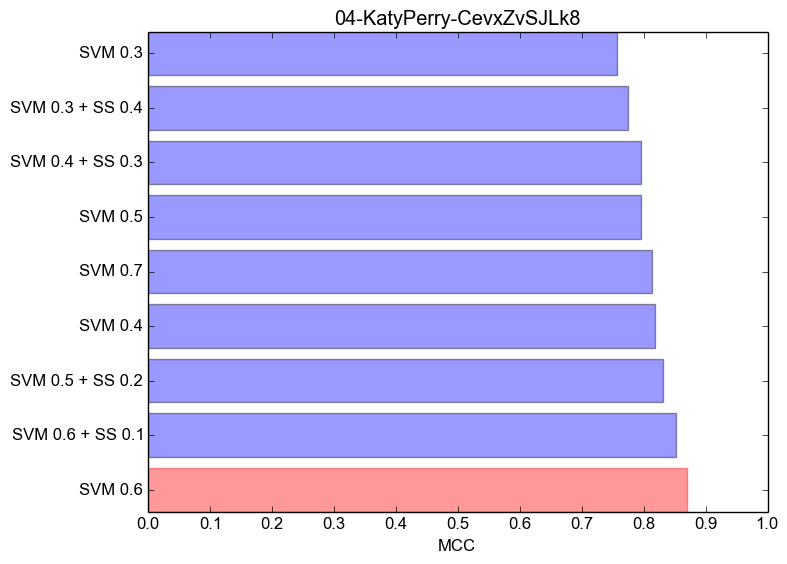
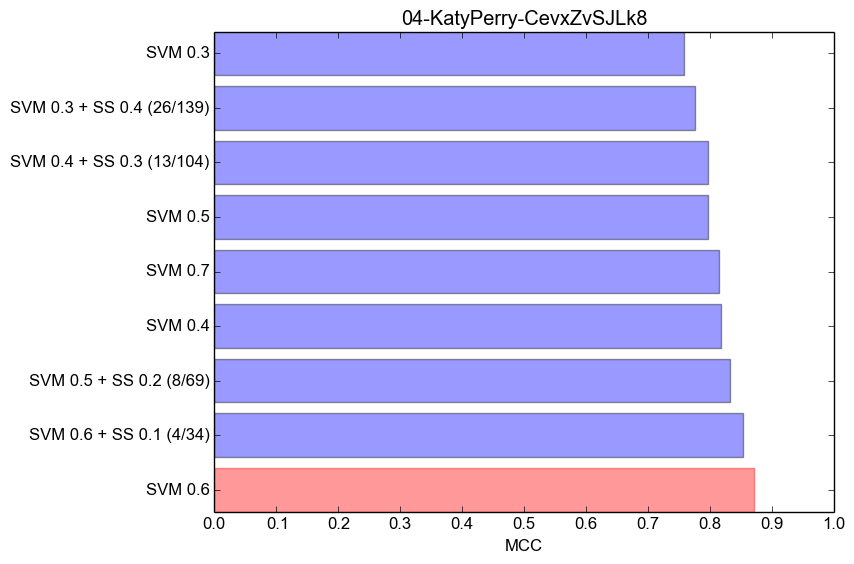
Add grid search to semi-supervised training

diff --git a/exp3 stratified/results/09-Shakira-pRpeEdMmmQ0.tex b/exp3 stratified/results/09-Shakira-pRpeEdMmmQ0.tex
@@ -7,13 +7,13 @@
 Classifier & Acc (\%) & SC (\%) & BH (\%) & F-medida & MCC & TP & TN & FP & FN \\ \hline
 SVM 0.7 & 93.75 & 90.57 & 3.39 & 0.932 & 0.876 & 48 & 57 & 2 & 5 \\ 
 SVM 0.3 & 92.86 & 88.68 & 3.39 & 0.922 & 0.858 & 47 & 57 & 2 & 6 \\ 
-SVM 0.3 + SS 0.4 (thr 0.7) (0/148) & 92.86 & 88.68 & 3.39 & 0.922 & 0.858 & 47 & 57 & 2 & 6 \\ 
-SVM 0.3 + SS 0.4 (thr 0.75) (0/148) & 92.86 & 88.68 & 3.39 & 0.922 & 0.858 & 47 & 57 & 2 & 6 \\ 
-SVM 0.3 + SS 0.4 (thr 0.8) (0/148) & 92.86 & 88.68 & 3.39 & 0.922 & 0.858 & 47 & 57 & 2 & 6 \\ 
-SVM 0.3 + SS 0.4 (thr 0.85) (0/148) & 92.86 & 88.68 & 3.39 & 0.922 & 0.858 & 47 & 57 & 2 & 6 \\ 
-SVM 0.3 + SS 0.4 (thr 0.9) (0/148) & 92.86 & 88.68 & 3.39 & 0.922 & 0.858 & 47 & 57 & 2 & 6 \\ 
-SVM 0.3 + SS 0.4 (thr 0.95) (0/148) & 92.86 & 88.68 & 3.39 & 0.922 & 0.858 & 47 & 57 & 2 & 6 \\ 
+SVM 0.3 + SS 0.4 (thr 0.9) (1/148) & 92.86 & 88.68 & 3.39 & 0.922 & 0.858 & 47 & 57 & 2 & 6 \\ 
+SVM 0.3 + SS 0.4 (thr 0.95) (1/148) & 92.86 & 88.68 & 3.39 & 0.922 & 0.858 & 47 & 57 & 2 & 6 \\ 
 SVM 0.3 + SS 0.4 (thr 1.0) (0/148) & 92.86 & 88.68 & 3.39 & 0.922 & 0.858 & 47 & 57 & 2 & 6 \\ 
+SVM 0.3 + SS 0.4 (thr 0.7) (8/148) & 92.86 & 90.57 & 5.08 & 0.923 & 0.857 & 48 & 56 & 3 & 5 \\ 
+SVM 0.3 + SS 0.4 (thr 0.75) (6/148) & 91.96 & 83.02 & 0.00 & 0.907 & 0.849 & 44 & 59 & 0 & 9 \\ 
+SVM 0.3 + SS 0.4 (thr 0.8) (6/148) & 91.96 & 83.02 & 0.00 & 0.907 & 0.849 & 44 & 59 & 0 & 9 \\ 
+SVM 0.3 + SS 0.4 (thr 0.85) (2/148) & 91.96 & 83.02 & 0.00 & 0.907 & 0.849 & 44 & 59 & 0 & 9 \\ 
 \hline\hline
 \end{tabular}
 \end{table}

diff --git a/experiment2.py b/experiment2.py
@@ -44,17 +44,16 @@ def exp2(filename):
     print clf_title
     print_best_params(clf)
 
-  ss_clf = LabelSpreading(kernel='rbf', gamma=1)
-  # ss_grid = GridSearchCV(LabelSpreading(kernel='rbf'), param_gamma, cv=10)
+  # ss_clf = LabelSpreading(kernel='rbf', gamma=1)
+  ss_grid = GridSearchCV(LabelSpreading(kernel='rbf'), param_gamma, cv=10)
   config = [('SVM 0.3 + SS 0.4', SemiSupervisedClassification(filename, threshold=0.9, train_percent=0.3, ss_percent=0.4)),
             ('SVM 0.4 + SS 0.3', SemiSupervisedClassification(filename, threshold=0.9, train_percent=0.4, ss_percent=0.3)),
             ('SVM 0.5 + SS 0.2', SemiSupervisedClassification(filename, threshold=0.9, train_percent=0.5, ss_percent=0.2)),
             ('SVM 0.6 + SS 0.1', SemiSupervisedClassification(filename, threshold=0.9, train_percent=0.6, ss_percent=0.1))]
 
   for clf_title, option in config:
-    y_true, y_pred, interm_clf, final_clf, len_above_SS, len_X_ss = option.classify(ss_clf, svm_grid);
-    # scores_list.append(('{0} ({1}/{2})'.format(clf_title, len_above_SS, len_X_ss), calculate_scores(y_true, y_pred)))
-    scores_list.append((clf_title, calculate_scores(y_true, y_pred)))
+    y_true, y_pred, interm_clf, final_clf, len_above_SS, len_X_ss = option.classify(ss_grid, svm_grid);
+    scores_list.append(('{0} ({1}/{2})'.format(clf_title, len_above_SS, len_X_ss), calculate_scores(y_true, y_pred)))
     print clf_title
     print_best_params(interm_clf)
     print_best_params(final_clf)

diff --git a/experiment3.py b/experiment3.py
@@ -41,8 +41,8 @@ def exp3(filename):
     print clf_title
     print_best_params(clf)
 
-  ss_clf = LabelSpreading(kernel='rbf', gamma=1)
-  # ss_grid = GridSearchCV(LabelSpreading(kernel='rbf'), param_gamma, cv=10)
+  # ss_clf = LabelSpreading(kernel='rbf', gamma=1)
+  ss_grid = GridSearchCV(LabelSpreading(kernel='rbf'), param_gamma, cv=10)
   config = [('SVM 0.3 + SS 0.4 (thr 0.7)',  SemiSupervisedClassification(filename, threshold=0.7 , train_percent=0.3, ss_percent=0.4)),
             ('SVM 0.3 + SS 0.4 (thr 0.75)', SemiSupervisedClassification(filename, threshold=0.75, train_percent=0.3, ss_percent=0.4)),
             ('SVM 0.3 + SS 0.4 (thr 0.8)',  SemiSupervisedClassification(filename, threshold=0.8 , train_percent=0.3, ss_percent=0.4)),
@@ -52,7 +52,7 @@ def exp3(filename):
             ('SVM 0.3 + SS 0.4 (thr 1.0)',  SemiSupervisedClassification(filename, threshold=1.0 , train_percent=0.3, ss_percent=0.4))]
 
   for clf_title, option in config:
-    y_true, y_pred, interm_clf, final_clf, len_above_SS, len_X_ss = option.classify(ss_clf, svm_grid);
+    y_true, y_pred, interm_clf, final_clf, len_above_SS, len_X_ss = option.classify(ss_grid, svm_grid);
     scores_list.append(('{0} ({1}/{2})'.format(clf_title, len_above_SS, len_X_ss), calculate_scores(y_true, y_pred)))
     # scores_list.append((clf_title, calculate_scores(y_true, y_pred)))
     print clf_title

diff --git a/exp2/results/09-Shakira-pRpeEdMmmQ0.tex b/exp2/results/09-Shakira-pRpeEdMmmQ0.tex
@@ -7,13 +7,13 @@
 Classifier & Acc (\%) & SC (\%) & BH (\%) & F-medida & MCC & TP & TN & FP & FN \\ \hline
 SVM 0.6 & 90.09 & 86.84 & 2.86 & 0.923 & 0.798 & 66 & 34 & 1 & 10 \\ 
 SVM 0.7 & 90.09 & 86.84 & 2.86 & 0.923 & 0.798 & 66 & 34 & 1 & 10 \\ 
-SVM 0.6 + SS 0.1 & 90.09 & 86.84 & 2.86 & 0.923 & 0.798 & 66 & 34 & 1 & 10 \\ 
+SVM 0.6 + SS 0.1 (26/37) & 90.09 & 86.84 & 2.86 & 0.923 & 0.798 & 66 & 34 & 1 & 10 \\ 
 SVM 0.5 & 89.19 & 84.21 & 0.00 & 0.914 & 0.792 & 64 & 35 & 0 & 12 \\ 
-SVM 0.5 + SS 0.2 & 83.78 & 76.32 & 0.00 & 0.866 & 0.710 & 58 & 35 & 0 & 18 \\ 
+SVM 0.5 + SS 0.2 (57/74) & 83.78 & 76.32 & 0.00 & 0.866 & 0.710 & 58 & 35 & 0 & 18 \\ 
 SVM 0.4 & 81.98 & 73.68 & 0.00 & 0.848 & 0.685 & 56 & 35 & 0 & 20 \\ 
 SVM 0.3 & 70.27 & 56.58 & 0.00 & 0.723 & 0.540 & 43 & 35 & 0 & 33 \\ 
-SVM 0.4 + SS 0.3 & 47.75 & 23.68 & 0.00 & 0.383 & 0.299 & 18 & 35 & 0 & 58 \\ 
-SVM 0.3 + SS 0.4 & 42.34 & 15.79 & 0.00 & 0.273 & 0.236 & 12 & 35 & 0 & 64 \\ 
+SVM 0.4 + SS 0.3 (99/111) & 47.75 & 23.68 & 0.00 & 0.383 & 0.299 & 18 & 35 & 0 & 58 \\ 
+SVM 0.3 + SS 0.4 (134/148) & 42.34 & 15.79 & 0.00 & 0.273 & 0.236 & 12 & 35 & 0 & 64 \\ 
 \hline\hline
 \end{tabular}
 \end{table}

diff --git a/exp2/results/07-LMFAO-KQ6zr6kCPj8.tex b/exp2/results/07-LMFAO-KQ6zr6kCPj8.tex
@@ -8,12 +8,12 @@ Classifier & Acc (\%) & SC (\%) & BH (\%) & F-medida & MCC & TP & TN & FP & FN \
 SVM 0.7 & 97.73 & 97.39 & 0.00 & 0.987 & 0.910 & 112 & 17 & 0 & 3 \\ 
 SVM 0.6 & 94.70 & 93.91 & 0.00 & 0.969 & 0.816 & 108 & 17 & 0 & 7 \\ 
 SVM 0.5 & 91.67 & 90.43 & 0.00 & 0.950 & 0.741 & 104 & 17 & 0 & 11 \\ 
-SVM 0.6 + SS 0.1 & 86.36 & 84.35 & 0.00 & 0.915 & 0.640 & 97 & 17 & 0 & 18 \\ 
+SVM 0.6 + SS 0.1 (25/44) & 86.36 & 84.35 & 0.00 & 0.915 & 0.640 & 97 & 17 & 0 & 18 \\ 
 SVM 0.3 & 72.73 & 68.70 & 0.00 & 0.814 & 0.469 & 79 & 17 & 0 & 36 \\ 
-SVM 0.5 + SS 0.2 & 68.18 & 63.48 & 0.00 & 0.777 & 0.428 & 73 & 17 & 0 & 42 \\ 
+SVM 0.5 + SS 0.2 (35/87) & 68.18 & 63.48 & 0.00 & 0.777 & 0.428 & 73 & 17 & 0 & 42 \\ 
 SVM 0.4 & 65.15 & 60.00 & 0.00 & 0.750 & 0.402 & 69 & 17 & 0 & 46 \\ 
-SVM 0.4 + SS 0.3 & 61.36 & 55.65 & 0.00 & 0.715 & 0.373 & 64 & 17 & 0 & 51 \\ 
-SVM 0.3 + SS 0.4 & 58.33 & 52.17 & 0.00 & 0.686 & 0.351 & 60 & 17 & 0 & 55 \\ 
+SVM 0.4 + SS 0.3 (75/131) & 61.36 & 55.65 & 0.00 & 0.715 & 0.373 & 64 & 17 & 0 & 51 \\ 
+SVM 0.3 + SS 0.4 (149/175) & 58.33 & 52.17 & 0.00 & 0.686 & 0.351 & 60 & 17 & 0 & 55 \\ 
 \hline\hline
 \end{tabular}
 \end{table}

diff --git a/exp2/results/04-KatyPerry-CevxZvSJLk8.tex b/exp2/results/04-KatyPerry-CevxZvSJLk8.tex
@@ -6,13 +6,13 @@
 \hline\hline
 Classifier & Acc (\%) & SC (\%) & BH (\%) & F-medida & MCC & TP & TN & FP & FN \\ \hline
 SVM 0.6 & 93.40 & 87.76 & 1.75 & 0.925 & 0.870 & 43 & 56 & 1 & 6 \\ 
-SVM 0.6 + SS 0.1 & 92.45 & 85.71 & 1.75 & 0.913 & 0.853 & 42 & 56 & 1 & 7 \\ 
-SVM 0.5 + SS 0.2 & 91.51 & 85.71 & 3.51 & 0.903 & 0.832 & 42 & 55 & 2 & 7 \\ 
+SVM 0.6 + SS 0.1 (4/34) & 92.45 & 85.71 & 1.75 & 0.913 & 0.853 & 42 & 56 & 1 & 7 \\ 
+SVM 0.5 + SS 0.2 (8/69) & 91.51 & 85.71 & 3.51 & 0.903 & 0.832 & 42 & 55 & 2 & 7 \\ 
 SVM 0.4 & 90.57 & 81.63 & 1.75 & 0.889 & 0.818 & 40 & 56 & 1 & 9 \\ 
 SVM 0.7 & 90.57 & 83.67 & 3.51 & 0.891 & 0.814 & 41 & 55 & 2 & 8 \\ 
 SVM 0.5 & 89.62 & 81.63 & 3.51 & 0.879 & 0.796 & 40 & 55 & 2 & 9 \\ 
-SVM 0.4 + SS 0.3 & 89.62 & 81.63 & 3.51 & 0.879 & 0.796 & 40 & 55 & 2 & 9 \\ 
-SVM 0.3 + SS 0.4 & 88.68 & 81.63 & 5.26 & 0.870 & 0.775 & 40 & 54 & 3 & 9 \\ 
+SVM 0.4 + SS 0.3 (13/104) & 89.62 & 81.63 & 3.51 & 0.879 & 0.796 & 40 & 55 & 2 & 9 \\ 
+SVM 0.3 + SS 0.4 (26/139) & 88.68 & 81.63 & 5.26 & 0.870 & 0.775 & 40 & 54 & 3 & 9 \\ 
 SVM 0.3 & 87.74 & 79.59 & 5.26 & 0.857 & 0.758 & 39 & 54 & 3 & 10 \\ 
 \hline\hline
 \end{tabular}

diff --git a/exp2/results/08-rotulada-tratada-embaralhada.tex b/exp2/results/08-rotulada-tratada-embaralhada.tex
@@ -8,12 +8,12 @@ Classifier & Acc (\%) & SC (\%) & BH (\%) & F-medida & MCC & TP & TN & FP & FN \
 SVM 0.7 & 97.04 & 95.59 & 1.49 & 0.970 & 0.941 & 65 & 66 & 1 & 3 \\ 
 SVM 0.4 & 96.30 & 95.59 & 2.99 & 0.963 & 0.926 & 65 & 65 & 2 & 3 \\ 
 SVM 0.6 & 95.56 & 95.59 & 4.48 & 0.956 & 0.911 & 65 & 64 & 3 & 3 \\ 
-SVM 0.5 + SS 0.2 & 95.56 & 95.59 & 4.48 & 0.956 & 0.911 & 65 & 64 & 3 & 3 \\ 
-SVM 0.6 + SS 0.1 & 95.56 & 95.59 & 4.48 & 0.956 & 0.911 & 65 & 64 & 3 & 3 \\ 
+SVM 0.5 + SS 0.2 (33/89) & 95.56 & 95.59 & 4.48 & 0.956 & 0.911 & 65 & 64 & 3 & 3 \\ 
+SVM 0.6 + SS 0.1 (9/45) & 95.56 & 95.59 & 4.48 & 0.956 & 0.911 & 65 & 64 & 3 & 3 \\ 
 SVM 0.3 & 94.81 & 92.65 & 2.99 & 0.947 & 0.897 & 63 & 65 & 2 & 5 \\ 
 SVM 0.5 & 94.81 & 95.59 & 5.97 & 0.949 & 0.896 & 65 & 63 & 4 & 3 \\ 
-SVM 0.4 + SS 0.3 & 91.85 & 89.71 & 5.97 & 0.917 & 0.838 & 61 & 63 & 4 & 7 \\ 
-SVM 0.3 + SS 0.4 & 91.11 & 89.71 & 7.46 & 0.910 & 0.823 & 61 & 62 & 5 & 7 \\ 
+SVM 0.4 + SS 0.3 (52/134) & 91.85 & 89.71 & 5.97 & 0.917 & 0.838 & 61 & 63 & 4 & 7 \\ 
+SVM 0.3 + SS 0.4 (65/179) & 91.11 & 89.71 & 7.46 & 0.910 & 0.823 & 61 & 62 & 5 & 7 \\ 
 \hline\hline
 \end{tabular}
 \end{table}

diff --git a/exp2/results/01-PSY-9bZkp7q19f0.tex b/exp2/results/01-PSY-9bZkp7q19f0.tex
@@ -7,12 +7,12 @@
 Classifier & Acc (\%) & SC (\%) & BH (\%) & F-medida & MCC & TP & TN & FP & FN \\ \hline
 SVM 0.6 & 96.23 & 93.02 & 1.59 & 0.952 & 0.922 & 40 & 62 & 1 & 3 \\ 
 SVM 0.7 & 96.23 & 93.02 & 1.59 & 0.952 & 0.922 & 40 & 62 & 1 & 3 \\ 
-SVM 0.6 + SS 0.1 & 96.23 & 93.02 & 1.59 & 0.952 & 0.922 & 40 & 62 & 1 & 3 \\ 
+SVM 0.6 + SS 0.1 (0/34) & 96.23 & 93.02 & 1.59 & 0.952 & 0.922 & 40 & 62 & 1 & 3 \\ 
 SVM 0.4 & 96.23 & 95.35 & 3.17 & 0.953 & 0.922 & 41 & 61 & 2 & 2 \\ 
-SVM 0.4 + SS 0.3 & 96.23 & 95.35 & 3.17 & 0.953 & 0.922 & 41 & 61 & 2 & 2 \\ 
+SVM 0.4 + SS 0.3 (13/104) & 96.23 & 95.35 & 3.17 & 0.953 & 0.922 & 41 & 61 & 2 & 2 \\ 
 SVM 0.5 & 95.28 & 93.02 & 3.17 & 0.941 & 0.902 & 40 & 61 & 2 & 3 \\ 
-SVM 0.5 + SS 0.2 & 95.28 & 93.02 & 3.17 & 0.941 & 0.902 & 40 & 61 & 2 & 3 \\ 
-SVM 0.3 + SS 0.4 & 89.62 & 93.02 & 12.70 & 0.879 & 0.792 & 40 & 55 & 8 & 3 \\ 
+SVM 0.5 + SS 0.2 (5/69) & 95.28 & 93.02 & 3.17 & 0.941 & 0.902 & 40 & 61 & 2 & 3 \\ 
+SVM 0.3 + SS 0.4 (52/139) & 89.62 & 93.02 & 12.70 & 0.879 & 0.792 & 40 & 55 & 8 & 3 \\ 
 SVM 0.3 & 88.68 & 90.70 & 12.70 & 0.867 & 0.771 & 39 & 55 & 8 & 4 \\ 
 \hline\hline
 \end{tabular}

diff --git a/exp2 stratified/results/08-rotulada-tratada-embaralhada.tex b/exp2 stratified/results/08-rotulada-tratada-embaralhada.tex
@@ -1,0 +1,19 @@
+\begin{table}[!htb]
+\centering
+\caption{Resultados dos métodos de aprendizado de máquina para o vídeo 08-rotulada-tratada-embaralhada.}
+\label{tab:08-rotulada-tratada-embaralhada}
+\begin{tabular}{r|c|c|c|c|c|c|c|c|c|c}
+\hline\hline
+Classifier & Acc (\%) & SC (\%) & BH (\%) & F-medida & MCC & TP & TN & FP & FN \\ \hline
+SVM 0.4 & 97.04 & 95.95 & 1.64 & 0.973 & 0.941 & 71 & 60 & 1 & 3 \\ 
+SVM 0.4 + SS 0.3 (46/134) & 97.04 & 95.95 & 1.64 & 0.973 & 0.941 & 71 & 60 & 1 & 3 \\ 
+SVM 0.7 & 96.30 & 94.59 & 1.64 & 0.966 & 0.926 & 70 & 60 & 1 & 4 \\ 
+SVM 0.5 + SS 0.2 (30/90) & 96.30 & 95.95 & 3.28 & 0.966 & 0.925 & 71 & 59 & 2 & 3 \\ 
+SVM 0.5 & 95.56 & 95.95 & 4.92 & 0.959 & 0.910 & 71 & 58 & 3 & 3 \\ 
+SVM 0.6 & 95.56 & 95.95 & 4.92 & 0.959 & 0.910 & 71 & 58 & 3 & 3 \\ 
+SVM 0.6 + SS 0.1 (10/45) & 95.56 & 95.95 & 4.92 & 0.959 & 0.910 & 71 & 58 & 3 & 3 \\ 
+SVM 0.3 & 94.81 & 93.24 & 3.28 & 0.952 & 0.897 & 69 & 59 & 2 & 5 \\ 
+SVM 0.3 + SS 0.4 (65/180) & 93.33 & 93.24 & 6.56 & 0.939 & 0.866 & 69 & 57 & 4 & 5 \\ 
+\hline\hline
+\end{tabular}
+\end{table}

diff --git a/exp2 stratified/results/04-KatyPerry-CevxZvSJLk8.tex b/exp2 stratified/results/04-KatyPerry-CevxZvSJLk8.tex
@@ -1,0 +1,19 @@
+\begin{table}[!htb]
+\centering
+\caption{Resultados dos métodos de aprendizado de máquina para o vídeo 04-KatyPerry-CevxZvSJLk8.}
+\label{tab:04-KatyPerry-CevxZvSJLk8}
+\begin{tabular}{r|c|c|c|c|c|c|c|c|c|c}
+\hline\hline
+Classifier & Acc (\%) & SC (\%) & BH (\%) & F-medida & MCC & TP & TN & FP & FN \\ \hline
+SVM 0.7 & 91.51 & 84.91 & 1.89 & 0.909 & 0.838 & 45 & 52 & 1 & 8 \\ 
+SVM 0.4 & 89.62 & 81.13 & 1.89 & 0.887 & 0.804 & 43 & 52 & 1 & 10 \\ 
+SVM 0.5 & 88.68 & 79.25 & 1.89 & 0.875 & 0.788 & 42 & 52 & 1 & 11 \\ 
+SVM 0.6 & 88.68 & 79.25 & 1.89 & 0.875 & 0.788 & 42 & 52 & 1 & 11 \\ 
+SVM 0.3 & 87.74 & 77.36 & 1.89 & 0.863 & 0.772 & 41 & 52 & 1 & 12 \\ 
+SVM 0.3 + SS 0.4 (34/140) & 87.74 & 77.36 & 1.89 & 0.863 & 0.772 & 41 & 52 & 1 & 12 \\ 
+SVM 0.6 + SS 0.1 (4/34) & 87.74 & 79.25 & 3.77 & 0.866 & 0.766 & 42 & 51 & 2 & 11 \\ 
+SVM 0.5 + SS 0.2 (14/70) & 86.79 & 77.36 & 3.77 & 0.854 & 0.749 & 41 & 51 & 2 & 12 \\ 
+SVM 0.4 + SS 0.3 (18/104) & 86.79 & 77.36 & 3.77 & 0.854 & 0.749 & 41 & 51 & 2 & 12 \\ 
+\hline\hline
+\end{tabular}
+\end{table}

diff --git a/exp2 stratified/results/07-LMFAO-KQ6zr6kCPj8.tex b/exp2 stratified/results/07-LMFAO-KQ6zr6kCPj8.tex
@@ -1,0 +1,19 @@
+\begin{table}[!htb]
+\centering
+\caption{Resultados dos métodos de aprendizado de máquina para o vídeo 07-LMFAO-KQ6zr6kCPj8.}
+\label{tab:07-LMFAO-KQ6zr6kCPj8}
+\begin{tabular}{r|c|c|c|c|c|c|c|c|c|c}
+\hline\hline
+Classifier & Acc (\%) & SC (\%) & BH (\%) & F-medida & MCC & TP & TN & FP & FN \\ \hline
+SVM 0.6 & 98.48 & 97.18 & 0.00 & 0.986 & 0.970 & 69 & 61 & 0 & 2 \\ 
+SVM 0.6 + SS 0.1 (39/44) & 98.48 & 97.18 & 0.00 & 0.986 & 0.970 & 69 & 61 & 0 & 2 \\ 
+SVM 0.7 & 97.73 & 95.77 & 0.00 & 0.978 & 0.955 & 68 & 61 & 0 & 3 \\ 
+SVM 0.5 + SS 0.2 (39/87) & 97.73 & 97.18 & 1.64 & 0.979 & 0.954 & 69 & 60 & 1 & 2 \\ 
+SVM 0.5 & 96.21 & 94.37 & 1.64 & 0.964 & 0.925 & 67 & 60 & 1 & 4 \\ 
+SVM 0.3 + SS 0.4 (80/176) & 94.70 & 94.37 & 4.92 & 0.950 & 0.894 & 67 & 58 & 3 & 4 \\ 
+SVM 0.3 & 93.94 & 94.37 & 6.56 & 0.944 & 0.878 & 67 & 57 & 4 & 4 \\ 
+SVM 0.4 & 93.18 & 94.37 & 8.20 & 0.937 & 0.863 & 67 & 56 & 5 & 4 \\ 
+SVM 0.4 + SS 0.3 (59/132) & 91.67 & 94.37 & 11.48 & 0.924 & 0.833 & 67 & 54 & 7 & 4 \\ 
+\hline\hline
+\end{tabular}
+\end{table}

diff --git a/exp2 stratified/results/09-Shakira-pRpeEdMmmQ0.tex b/exp2 stratified/results/09-Shakira-pRpeEdMmmQ0.tex
@@ -1,0 +1,19 @@
+\begin{table}[!htb]
+\centering
+\caption{Resultados dos métodos de aprendizado de máquina para o vídeo 09-Shakira-pRpeEdMmmQ0.}
+\label{tab:09-Shakira-pRpeEdMmmQ0}
+\begin{tabular}{r|c|c|c|c|c|c|c|c|c|c}
+\hline\hline
+Classifier & Acc (\%) & SC (\%) & BH (\%) & F-medida & MCC & TP & TN & FP & FN \\ \hline
+SVM 0.4 & 93.75 & 88.68 & 1.69 & 0.931 & 0.878 & 47 & 58 & 1 & 6 \\ 
+SVM 0.4 + SS 0.3 (3/111) & 93.75 & 88.68 & 1.69 & 0.931 & 0.878 & 47 & 58 & 1 & 6 \\ 
+SVM 0.7 & 93.75 & 90.57 & 3.39 & 0.932 & 0.876 & 48 & 57 & 2 & 5 \\ 
+SVM 0.3 & 92.86 & 88.68 & 3.39 & 0.922 & 0.858 & 47 & 57 & 2 & 6 \\ 
+SVM 0.5 & 92.86 & 88.68 & 3.39 & 0.922 & 0.858 & 47 & 57 & 2 & 6 \\ 
+SVM 0.6 & 92.86 & 88.68 & 3.39 & 0.922 & 0.858 & 47 & 57 & 2 & 6 \\ 
+SVM 0.3 + SS 0.4 (1/148) & 92.86 & 88.68 & 3.39 & 0.922 & 0.858 & 47 & 57 & 2 & 6 \\ 
+SVM 0.5 + SS 0.2 (2/73) & 92.86 & 88.68 & 3.39 & 0.922 & 0.858 & 47 & 57 & 2 & 6 \\ 
+SVM 0.6 + SS 0.1 (6/37) & 92.86 & 88.68 & 3.39 & 0.922 & 0.858 & 47 & 57 & 2 & 6 \\ 
+\hline\hline
+\end{tabular}
+\end{table}
